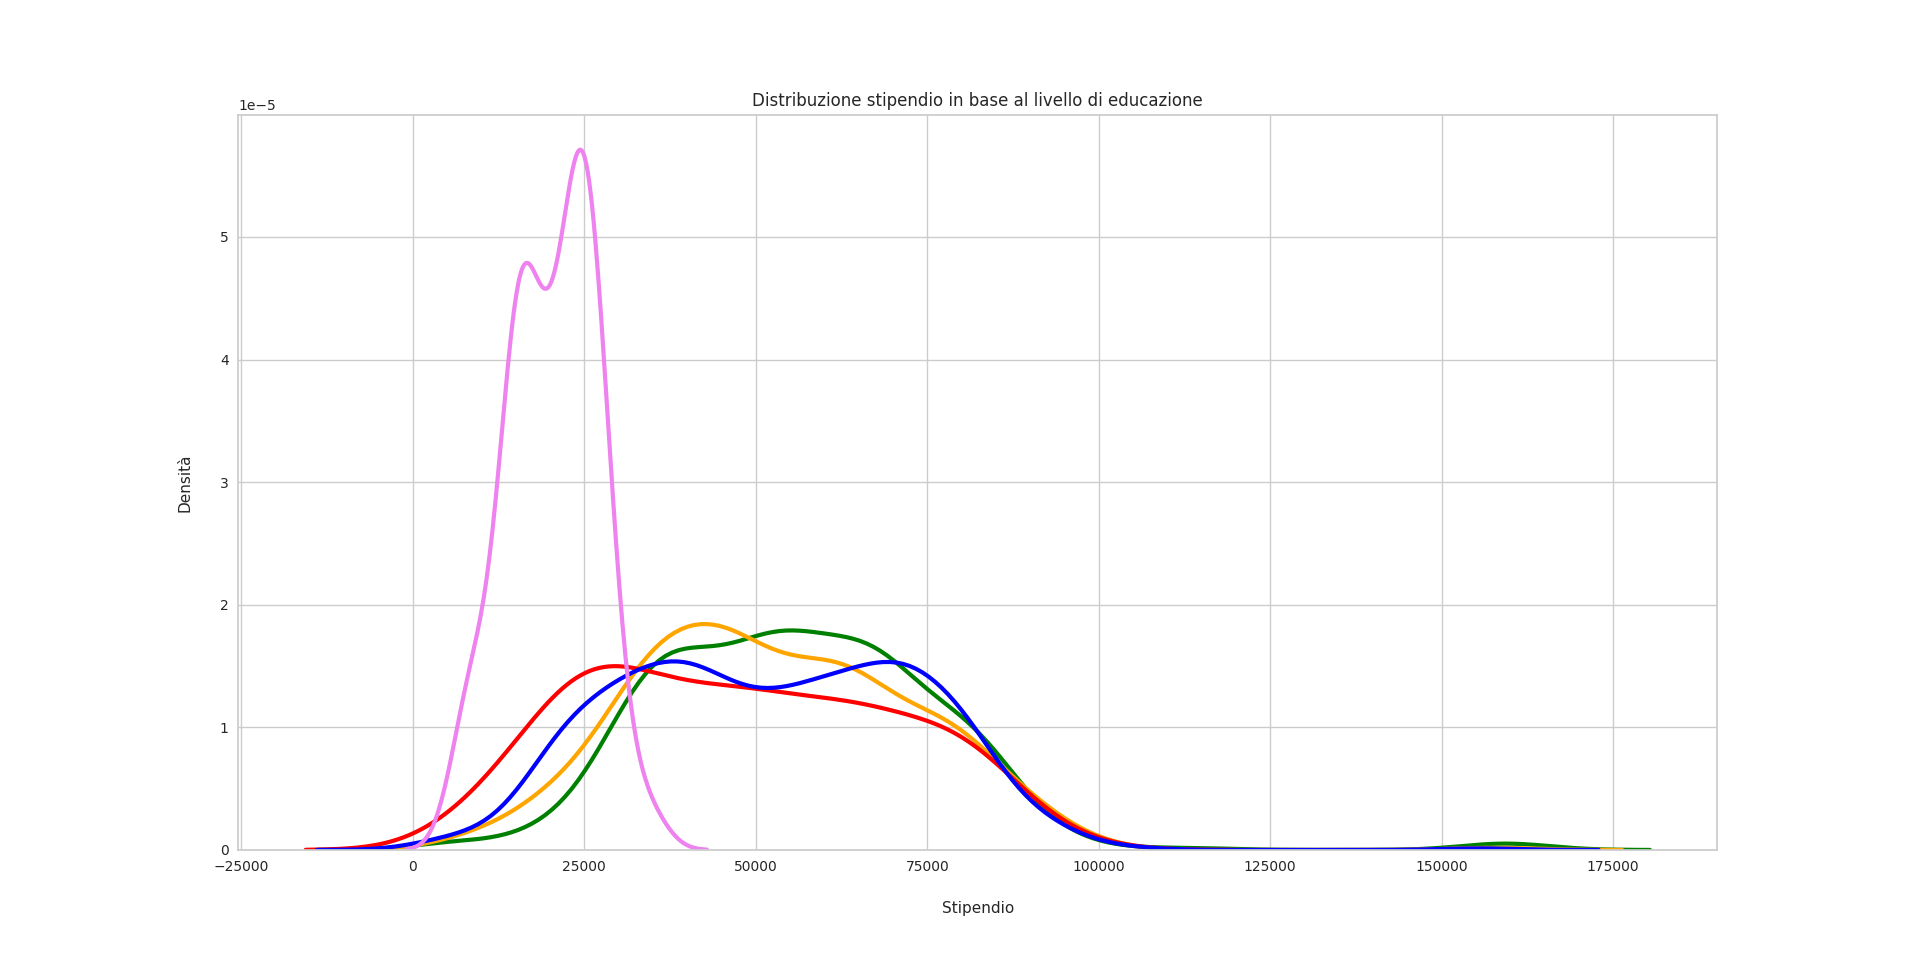
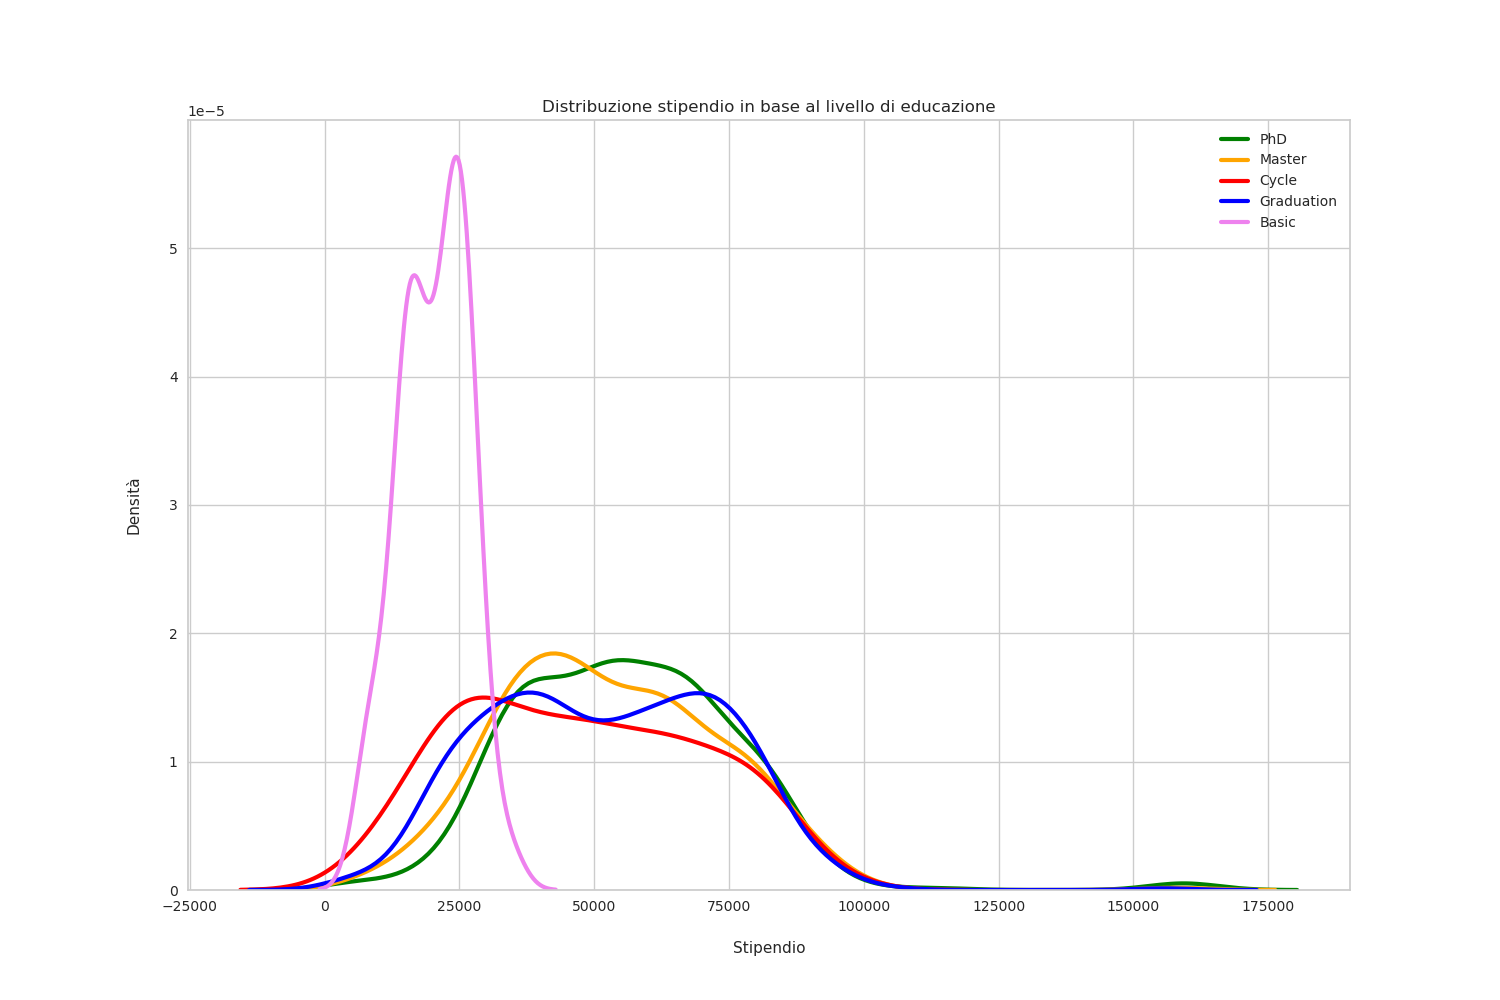
fine spero

diff --git a/clustering.py b/clustering.py
@@ -155,23 +155,6 @@ plt.show()
 phd_data = data.loc[data.Education== 'PhD']
 #phd_data.head()
 
-plt.figure(figsize=(15, 9))
-
-histogram = sns.histplot(
-    phd_data.Income, 
-    bins=20, 
-    stat='density',
-    alpha=1,
-    color = "orange"
-)
-
-density_curve = sns.kdeplot(phd_data.Income, linewidth=3, color="red")
-
-plt.xlabel("Income", labelpad=20)
-plt.ylabel("Density", labelpad=20)
-plt.title("Phd income")
-#plt.show()
-
 mean_income = phd_data.Income.mean()
 median_income = phd_data.Income.median()
 std_income = phd_data.Income.std()
@@ -182,22 +165,6 @@ print("Standard deviation: " + str(std_income))
 basic_data = data.loc[data.Education== 'Basic']
 #basic_data.head()
 
-plt.figure(figsize=(15, 9))
-
-histogram = sns.histplot(
-    basic_data.Income, 
-    bins=20, 
-    stat='density',
-    alpha=0.5,
-    color = "green"
-)
-
-density_curve = sns.kdeplot(basic_data.Income, linewidth=3, color="green")
-
-plt.title("Basic Education Income")
-plt.xlabel("Income", labelpad=20)
-plt.ylabel("Density", labelpad=20)
-#plt.show()
 
 mean_income = basic_data.Income.mean()
 median_income = basic_data.Income.median()
@@ -209,22 +176,6 @@ print("Standard deviation: " + str(std_income))
 graduation_data = data.loc[data.Education== 'Graduation']
 #graduation_data.head()
 
-plt.figure(figsize=(15, 9))
-
-histogram = sns.histplot(
-    graduation_data.Income, 
-    bins=20, 
-    stat='density',
-    alpha=0.5,
-    color = "violet"
-)
-
-density_curve = sns.kdeplot(graduation_data.Income, linewidth=3, color="violet")
-
-plt.title("Graduation income")
-plt.xlabel("Income", labelpad=20)
-plt.ylabel("Density", labelpad=20)
-#plt.show()
 
 graduation_data = graduation_data[graduation_data.Income < 600000]
 
@@ -238,22 +189,6 @@ print("Standard deviation: " + str(std_income))
 cycle_data = data.loc[data.Education== '2n Cycle']
 #cycle_data.head()
 
-plt.figure(figsize=(15, 9))
-
-histogram = sns.histplot(
-    cycle_data.Income, 
-    bins=20, 
-    stat='density',
-    alpha=0.7,
-    color = "blue"
-)
-
-density_curve = sns.kdeplot(cycle_data.Income, linewidth=3, color="blue")
-
-plt.title("2dn cycle Income")
-plt.xlabel("Income", labelpad=20)
-plt.ylabel("Density", labelpad=20)
-#plt.show()
 
 mean_income = cycle_data.Income.mean()
 median_income = cycle_data.Income.median()
@@ -265,23 +200,6 @@ print("Standard deviation: " + str(std_income))
 master_data = data.loc[data.Education== 'Master']
 #master_data.head()
 
-plt.figure(figsize=(15, 9))
-
-histogram = sns.histplot(
-    master_data.Income, 
-    bins=20, 
-    stat='density',
-    alpha=0.5,
-    color = "green"
-)
-
-density_curve = sns.kdeplot(master_data.Income, linewidth=3, color="green")
-
-plt.title("Master income")
-plt.xlabel("Income", labelpad=20)
-plt.ylabel("Density", labelpad=20)
-#plt.show()
-
 mean_income = master_data.Income.mean()
 median_income = master_data.Income.median()
 std_income = master_data.Income.std()
@@ -291,17 +209,19 @@ print("Standard deviation: " + str(std_income))
 
 plt.figure(figsize=(15,10))
 
-density_curve = sns.kdeplot(phd_data.Income, linewidth=3, color="green")
-density_curve = sns.kdeplot(master_data.Income, linewidth=3, color="orange")
-density_curve = sns.kdeplot(cycle_data.Income, linewidth=3, color="red")
-density_curve = sns.kdeplot(graduation_data.Income, linewidth=3, color="blue")
-density_curve = sns.kdeplot(basic_data.Income, linewidth=3, color="violet")
+sns.kdeplot(phd_data.Income, linewidth=3, color="green", label="PhD")
+sns.kdeplot(master_data.Income, linewidth=3, color="orange", label="Master")
+sns.kdeplot(cycle_data.Income, linewidth=3, color="red", label="Cycle")
+sns.kdeplot(graduation_data.Income, linewidth=3, color="blue", label="Graduation")
+sns.kdeplot(basic_data.Income, linewidth=3, color="violet", label="Basic")
 
 plt.title("Distribuzione stipendio in base al livello di educazione")
 plt.xlabel("Stipendio", labelpad=20)
 plt.ylabel("Densità", labelpad=20)
+
 plt.legend()
 plt.show()
+
 
 s = (data.dtypes == 'object')
 object_cols = list(s[s].index)
